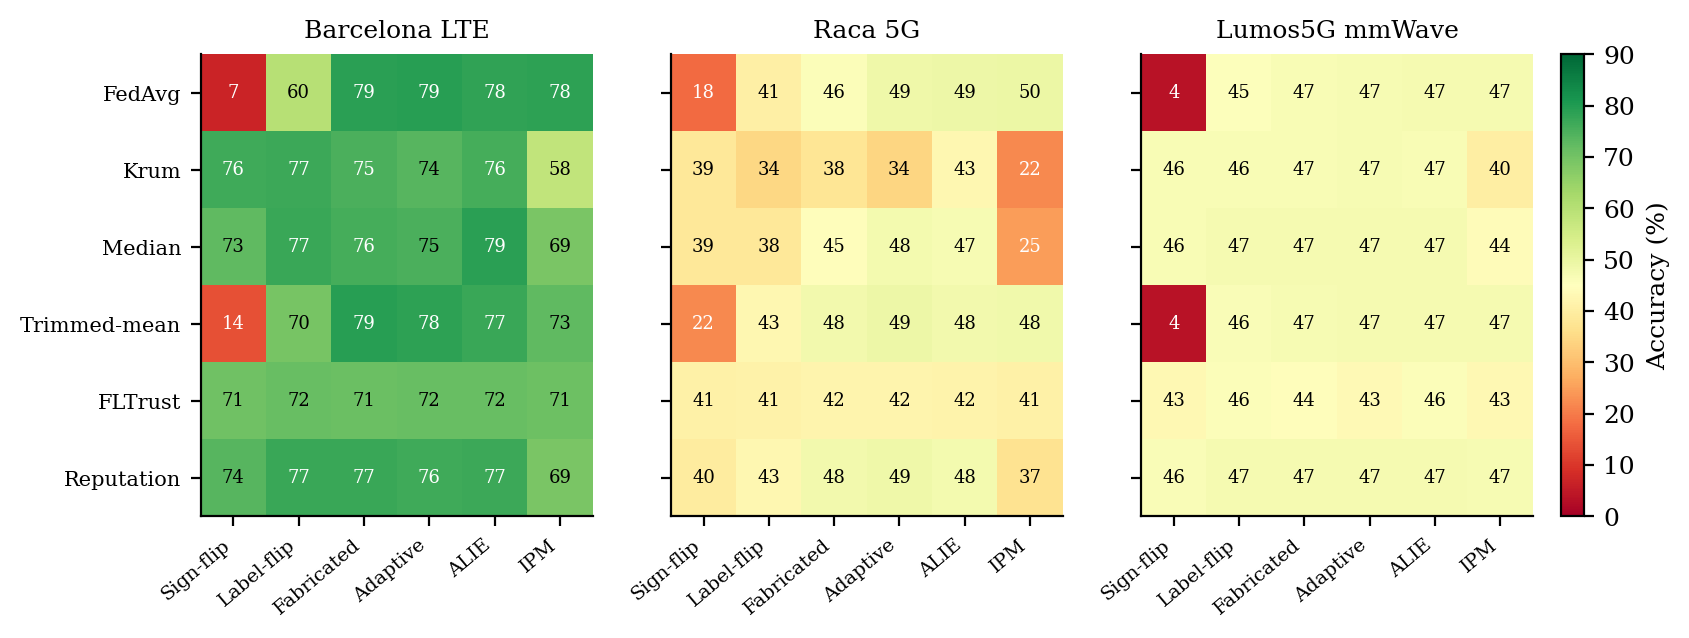
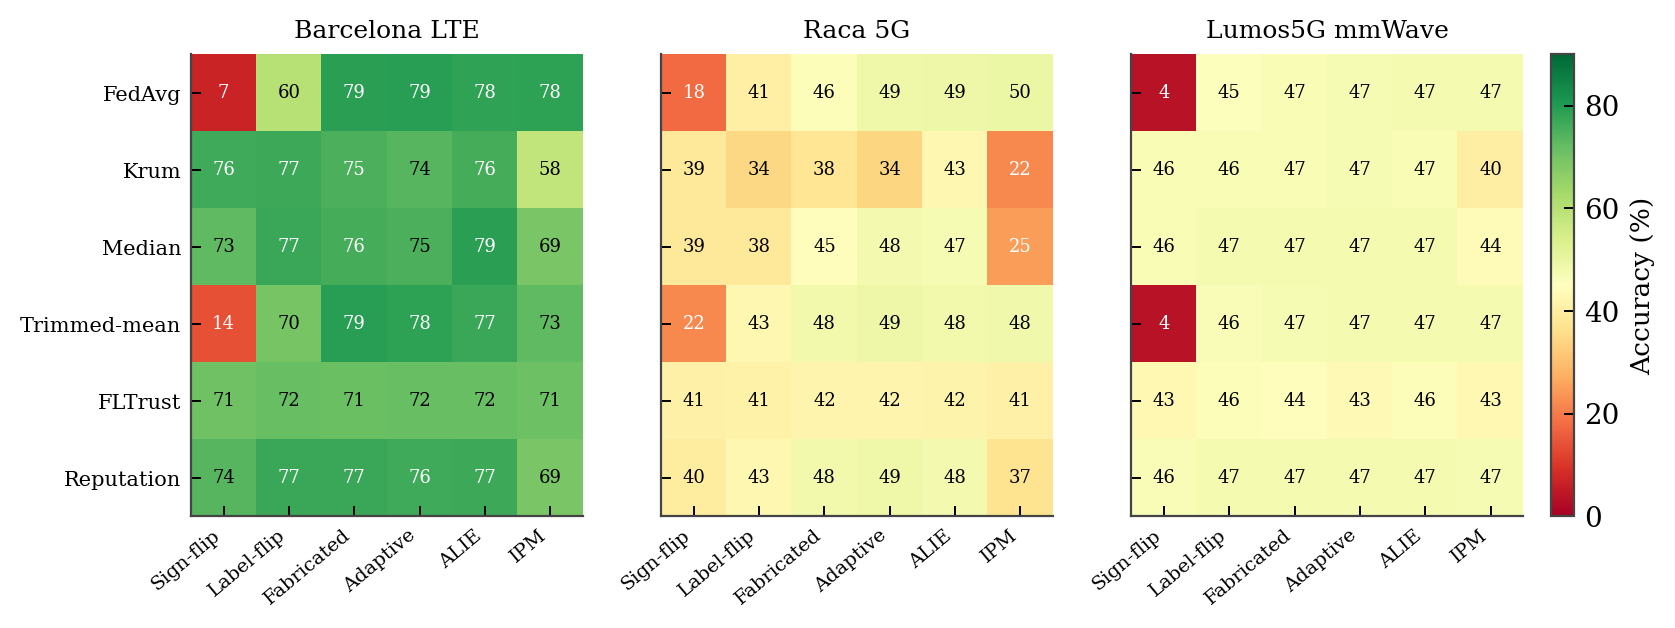
Polish figures to publication style and add color-shaded heatmap tables
- make_figures.py: LaTeX Computer Modern serif fonts, clean inward ticks, white-edged markers, CI bands (matches published FL papers)
- make_paper_tables.py: emit color-shaded cells (blue=high, orange=low accuracy) via cellcolor, the domain-standard attack x defense heatmap-table style (cf. SoK Table 7)

diff --git a/scripts/make_figures.py b/scripts/make_figures.py
@@ -21,13 +21,20 @@ import numpy as np
 
 plt.rcParams.update({
     "font.family": "serif",
-    "font.size": 9,
-    "axes.titlesize": 9,
-    "axes.labelsize": 9,
-    "legend.fontsize": 7.5,
+    "mathtext.fontset": "cm",
+    "font.size": 10,
+    "axes.titlesize": 10,
+    "axes.labelsize": 9.5,
+    "legend.fontsize": 9,
+    "axes.linewidth": 0.8,
+    "axes.edgecolor": "#444444",
     "axes.spines.top": False,
     "axes.spines.right": False,
-    "figure.dpi": 150,
+    "xtick.direction": "in", "ytick.direction": "in",
+    "xtick.major.size": 3.5, "ytick.major.size": 3.5,
+    "xtick.major.width": 0.7, "ytick.major.width": 0.7,
+    "legend.frameon": False,
+    "figure.dpi": 200,
 })
 
 ROOT = Path(__file__).resolve().parents[1]
@@ -37,11 +44,22 @@ LABEL = {"fedavg": "FedAvg", "krum": "Krum", "median": "Median",
 ATTACKS = ["sign_flip", "label_flip", "fabricated", "adaptive", "alie", "ipm"]
 ATT_LABEL = {"sign_flip": "Sign-flip", "label_flip": "Label-flip", "fabricated": "Fabricated",
              "adaptive": "Adaptive", "alie": "ALIE", "ipm": "IPM"}
-# Colorblind-safe (Okabe-Ito) palette.
-COLOR = {"fedavg": "#000000", "krum": "#D55E00", "median": "#0072B2",
-         "trimmed_mean": "#009E73", "fltrust": "#999999", "reputation": "#CC79A7"}
+# Colorblind-safe palette.
+COLOR = {"fedavg": "#111111", "krum": "#D55E00", "median": "#0072B2",
+         "trimmed_mean": "#117733", "fltrust": "#8C8C8C", "reputation": "#AA4499"}
 MARK = {"fedavg": "o", "krum": "^", "median": "s", "trimmed_mean": "D",
-        "fltrust": "v", "reputation": "X"}
+        "fltrust": "v", "reputation": "P"}
+
+
+def _plot(ax, x, ys, es, agg):
+    ax.plot(x, ys, marker=MARK[agg], ms=4.5, lw=1.6, color=COLOR[agg],
+            mfc=COLOR[agg], mec="white", mew=0.6, label=LABEL[agg], zorder=3)
+    ax.fill_between(x, ys - es, ys + es, color=COLOR[agg], alpha=0.10, lw=0, zorder=1)
+
+
+def _style(ax):
+    ax.grid(True, ls="-", lw=0.4, alpha=0.25, zorder=0)
+    ax.tick_params(labelsize=9)
 
 
 def load_summary(path: Path):
@@ -62,17 +80,14 @@ def ipm_panels(datasets):
     x = [0.1, 0.2, 0.3]
     for ax, (title, d) in zip(axes, datasets):
         for agg in AGGS:
-            ys = [d.get((f, "ipm", agg), (np.nan, 0))[0] for f in fracs]
-            es = [d.get((f, "ipm", agg), (np.nan, 0))[1] for f in fracs]
-            ys, es = np.array(ys), np.array(es)
-            ax.plot(x, ys, marker=MARK[agg], ms=4, lw=1.4, color=COLOR[agg],
-                    label=LABEL[agg])
-            ax.fill_between(x, ys - es, ys + es, color=COLOR[agg], alpha=0.12, lw=0)
-        ax.set_title(title)
+            ys = np.array([d.get((f, "ipm", agg), (np.nan, 0))[0] for f in fracs])
+            es = np.array([d.get((f, "ipm", agg), (np.nan, 0))[1] for f in fracs])
+            _plot(ax, x, ys, es, agg)
+        ax.set_title(title, pad=6)
         ax.set_xlabel("Compromise fraction $f$")
-        ax.set_xticks(x)
-        ax.grid(True, ls=":", lw=0.5, alpha=0.6)
-    axes[0].set_ylabel("Accuracy (\\%)" if plt.rcParams["text.usetex"] else "Accuracy (%)")
+        ax.set_xlim(0.07, 0.33); ax.set_xticks(x)
+        _style(ax)
+    axes[0].set_ylabel("Accuracy (%)")
     handles, labels = axes[0].get_legend_handles_labels()
     fig.legend(handles, labels, ncol=6, loc="upper center",
                bbox_to_anchor=(0.5, 1.06), frameon=False)
@@ -114,11 +129,10 @@ def attack_grid(d, title, stem):
         for agg in AGGS:
             ys = np.array([d.get((f, attack, agg), (np.nan, 0))[0] for f in fracs])
             es = np.array([d.get((f, attack, agg), (np.nan, 0))[1] for f in fracs])
-            ax.plot(x, ys, marker=MARK[agg], ms=3.5, lw=1.3, color=COLOR[agg], label=LABEL[agg])
-            ax.fill_between(x, ys - es, ys + es, color=COLOR[agg], alpha=0.10, lw=0)
-        ax.set_title(ATT_LABEL[attack], fontsize=9)
-        ax.set_xticks(x)
-        ax.grid(True, ls=":", lw=0.5, alpha=0.6)
+            _plot(ax, x, ys, es, agg)
+        ax.set_title(ATT_LABEL[attack])
+        ax.set_xlim(0.07, 0.33); ax.set_xticks(x)
+        _style(ax)
     for ax in axes[-1, :]:
         ax.set_xlabel("Compromise fraction $f$")
     for ax in axes[:, 0]:

diff --git a/scripts/make_paper_tables.py b/scripts/make_paper_tables.py
@@ -54,7 +54,22 @@ def main():
             if defended:
                 worst_per_attack[a] = min(defended, key=defended.get)
 
+    # diverging blue(good)->orange(bad) cell shading around the mid of the range,
+    # matching the color-coded tables common in FL-security papers (e.g. SoK).
+    allv = [100 * d[(a, agg, f)][0] for a in attacks for agg in AGG_ORDER if (a, agg, f) in d]
+    lo, hi = min(allv), max(allv)
+    mid = 0.5 * (lo + hi)
+
+    def shade(v):
+        if hi - lo < 1e-6:
+            return ""
+        span = max(hi - mid, mid - lo)
+        inten = min(38, abs(v - mid) / span * 38) if span > 1e-6 else 0
+        colour = "MidnightBlue" if v >= mid else "BurntOrange"
+        return f"\\cellcolor{{{colour}!{inten:.0f}}}"
+
     lines = ["% methods x attacks accuracy (%) at f=" + f + ", mean over seeds.",
+             "% requires \\usepackage[table,dvipsnames]{xcolor} in the preamble.",
              "\\begin{tabular}{l" + "c" * len(attacks) + "}", "\\toprule",
              "\\textbf{Method} & " + " & ".join(ATT_LABEL[a] for a in attacks) + " \\\\",
              "\\midrule"]
@@ -64,12 +79,13 @@ def main():
             v = d.get((a, agg, f))
             if not v:
                 cells.append("--"); continue
-            s = f"{100*v[0]:.1f}"
+            acc = 100 * v[0]
+            s = f"{acc:.1f}"
             if best_per_attack.get(a) == agg:
                 s = "\\textbf{" + s + "}"
             elif worst_per_attack.get(a) == agg:
                 s = "\\underline{" + s + "}"
-            cells.append(s)
+            cells.append(shade(acc) + s)
         lines.append(f"{AGG_LABEL[agg]} & " + " & ".join(cells) + " \\\\")
     lines += ["\\bottomrule", "\\end{tabular}"]
     (out / "table_by_attack.tex").write_text("\n".join(lines), encoding="utf-8")